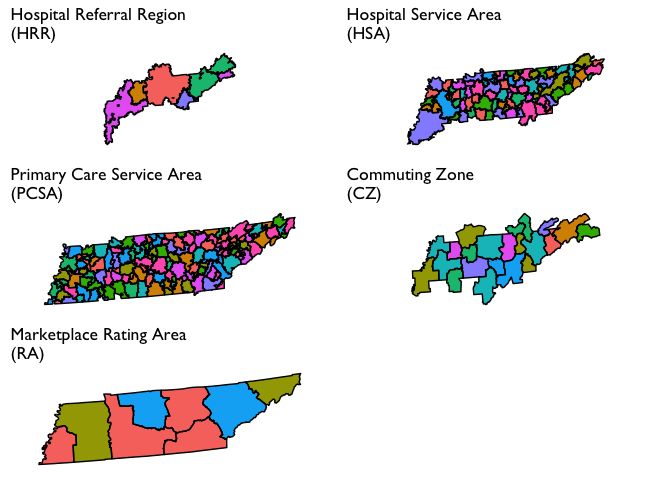
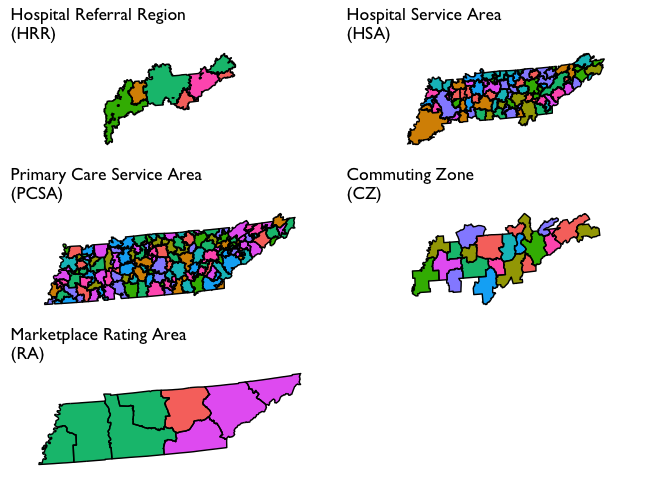
updated README and links in README

diff --git a/README.md b/README.md
@@ -2,9 +2,8 @@
 # Defining Geographic Markets for Health Care Services
 
 The objective of this repository is to lay out some thoughts, analytics,
-and data for defining geographic markets for health care services in the
-U.S. In other words, it is a guided tour of a particularly complex
-rabbit hole.
+and data for defining geographic markets for health care services. In
+other words, it is a guided tour of a particularly complex rabbit hole.
 
 Geographic market definitions are important for a wide variety of
 regulatory and research applications. Therefore, for any given use
@@ -15,26 +14,25 @@ alternative market definitions.
 
 For example, suppose our goal is to characterize insurers, hospitals or
 other providers by whether they operate in a concentrated market. If we
-use a market geography or other market definition that is too narrow
-(e.g., ZIP code) we will mischaracterize many markets as “concentrated”
-when they are really not (i.e., Type I error). Alternatively, a market
-definition that is too broad (e.g., state) risks characterizing markets
-as competitive when in practice a hypothetical merger could materially
-affect prices and competitiveness in a given area (i.e., Type II error).
+use a market geography definition that is too narrow (e.g., ZIP code) we
+will mischaracterize many markets as “concentrated” when they are really
+not (i.e., Type I error). Alternatively, a market definition that is too
+broad (e.g., state) risks characterizing markets as competitive when in
+practice a hypothetical merger or market exit could materially affect
+prices and competitiveness (i.e., Type II error).
 
-Nor surprisingly given the above issues, commonly used market
+Not surprisingly given the above issues, commonly used market
 geographies such as hospital referral regions (HRRs), hospital service
 areas (HSAs), commuting zones (CZs), metropolitan statistical areas
 (MSAs), etc. have trade-offs. Whether the strengths outweigh the
 weaknesses for a given application will depend on the specific research
 or regulatory question at hand.
 
-Even if we can settle on a single definition for our particular
-application or research question, there are other important
-considerations at play. For example, some market definitions are
-constrained by geopolitical boundaries (e.g., state borders). While this
-may be fine for some settings (e.g., rate regulation in insurance
-markets) it may not be for others (e.g., hosptial markets).
+There are other important considerations at play as well. For example,
+some market definitions are constrained by geopolitical boundaries
+(e.g., state borders). While this may be fine for some settings (e.g.,
+rate regulation in insurance markets) it may not be for others (e.g.,
+hosptial markets).
 
 In addition, the underlying population data used to define some commonly
 used geographic markets is woefully out of date. The latest commuting
@@ -56,7 +54,7 @@ for the Affordable Care Act’s non-group marketplaces.
 
 These various market geographies are plotted for Tennessee in the figure
 below. Note that the colors in each polygon are arbitrary and only
-indended to further highlight boundaries across geographies.
+intended to further highlight boundaries across geographies.
 
 What is clear here is that the size of the geographic market varies
 greatly across these possible definitions. HRRs constitute the largest
@@ -68,22 +66,105 @@ used as the geographic market definition to construct an HHI measure.
 Similarly, we see that PCSAs are quite small, while rating areas in
 Tennessee are somewhere in-between the broader HRRs and commuting zones.
 
-![](README_files/figure-gfm/unnamed-chunk-1-1.png)<!-- --> \# Geographic
-Market Definitions
+![](README_files/figure-gfm/unnamed-chunk-1-1.png)<!-- -->
+
+# Geographic Market Definitions
 
 Before moving on it is useful to put down, in one place, the specific
 methods and definitions used to construct each of the aforementioned
 geographic market definitions.
 
-## Hospital Service Areas
+## Hospital Service Areas (HSA)
 
-## Hosptial Referral Regions
+HSAs are defined by the hospital care patterns of fee-for-service
+Medicare beneficiaries. Specifically, a three-step process is used:
+
+1.  Define all general acute care hospitals in the U.S. The town or city
+    of the hospital location becomes the basis for HSA naming. Thus, if
+    a given town has more than one hospital, those hospitals would be
+    considered as part of the same HSA. In practice most HSAs end up
+    with one hospital, however.
+
+2.  Aggregate all Medicare visits to the hospital (or hospitals, in
+    cases where towns or cities have \> 1 hospital). Using a plurality
+    rule, assign ZIP codes to the HSA name where the most of its
+    residents receive hospital care.
+
+3.  Curate the HSA assignments to assure that only contiguous ZIPs make
+    up the HSA.
+
+In total there are 3,436 HSAs in the United States.
+
+According to the Dartmouth methods appendix, data from 1992-93 were used
+to construct HSA boundaries. However, crosswalks from ZIP code
+tabulation area (ZCTA) to HSA are available on the Dartmouth website
+through 2017. Since 3,436 unique HSAs appear in the latest (2017)
+crosswalk this suggests that the updates only pertain to ZCTA updates,
+rather than updates on the geographies of the underlying HSAs.
+
+## Hosptial Referral Regions (HRR)
+
+Whereas HSAs are intented to capture the geographic catchment area where
+residents of a ZIP code receive most of their overall hospital services,
+HRRs are meant to capture larger teritary referral areas.
+
+To identify HRRS, Dartmouth researchers aggregated HSAs into contiguous
+geographies based on where residents of the HSA received the most
+cardiovascular procedures and neurosurgeries. Thus, HSAs serve as the
+basic building block of HRRs. HRRs are also constructed to meet the
+following criteria:
+
+  - Population of at least 120,000.
+  - At least 65% of residents’ services occurred within the region.
+  - Comprised of geographically contiguous HSAs.
+
+In cases where the above criteria were not met, neighboring areas were
+pooled together until all criteria were satisfied. There are 306 HRRs in
+the United States.
 
 ## Primary Care Service Areas
 
+PCSAs are intented to serve as HSAs for primary care. Thus, a PCSA is
+defined as a collection of contiguous ZIP codes with at least one
+primary care provider, and where the plurality of primary care services
+is obtained among fee-for-service Medicare beneficiaries.
+
+There are 6,542 PCSAs in the U.S. – or roughly double the number of
+HSAs. On average there are 4.9 ZCTAs in a PCTA (median =3, max = 81, min
+= 1). 61% of primary care services, on average, are obtained within
+PCSAs.
+
 ## Marketplace Rating Areas
 
+Marketplace rating areas are geographically contiguous areas used for
+the purpopses of insurance plan rate setting in the non-group market.
+The default geography used to set rating areas is the Metropolitan
+Statistical Area (MSA) plus the remainder of the state not in an MSA
+(MSA+1 definition). However, states have the option to define
+alternative county, 3-digit ZIP, or MSA/non-MSA clusters if they deem
+some alternative definition more important for regulation and rate
+setting within the state.
+
+In practice, only 7 states (AL, NM, ND, OK, TX, VA, WY) went along with
+the default (MSA+1) standard. The vast majority of the states submitted
+clusterings of counties as their rating area definitions. Another
+handful of states (MA, NE, AK) uses clusters of 3-digit ZIP codes, while
+CA uses a combination of counties and 3-digit ZIPs. Specifically, LA
+county is split into two rating areas based on 3-digit ZIP.
+
+What this means is there is signficant heterogeneity across states in
+the geographic and population size of rating areas. South Carolina, for
+example, has 46 rating areas – more than *double* the 19 rating areas
+that define California\!
+
 ## Commuting Zones
+
+Commuting zones are comprised of geographically contiguous counties with
+strong wtihin-area clustering of commuting ties between residental and
+work county, and weak across-area ties.
+
+More recent data are available
+[here](https://www.census.gov/data/tables/time-series/demo/commuting/commuting-flows.html).
 
 # How Do HHI Measures Compare Across Geographic Market Defintions?
 
@@ -115,6 +196,47 @@ extensions to the geographic definitions covered above. These include:
         greatest fraction).
     
       - Based on hospital-specific HHIs.
+
+### Rural-Urban Commuting
+
+[Rural-Urban Commuting
+Codes](https://www.ers.usda.gov/data-products/rural-urban-commuting-area-codes.aspx)
+
+> The rural-urban commuting area (RUCA) codes classify U.S. census
+> tracts using measures of population density, urbanization, and daily
+> commuting. The most recent RUCA codes are based on data from the 2010
+> decennial census and the 2006-10 American Community Survey. The
+> classification contains two levels. Whole numbers (1-10) delineate
+> metropolitan, micropolitan, small town, and rural commuting areas
+> based on the size and direction of the primary (largest) commuting
+> flows. These 10 codes are further subdivided based on secondary
+> commuting flows, providing flexibility in combining levels to meet
+> varying definitional needs and preferences.
+
+1  Metropolitan area core: primary flow within an urbanized area (UA)
+
+2.  Metropolitan area high commuting: primary flow 30% or more to a UA
+
+3  Metropolitan area low commuting: primary flow 10% to 30% to a UA
+
+4 Micropolitan area core: primary flow within an Urban Cluster of 10,000
+to 49,999 (large UC)
+
+5 Micropolitan high commuting: primary flow 30% or more to a large UC
+
+6 Micropolitan low commuting: primary flow 10% to 30% to a large UC
+
+7 Small town core: primary flow within an Urban Cluster of 2,500 to
+9,999 (small UC)
+
+8 Small town high commuting: primary flow 30% or more to a small UC
+
+9 Small town low commuting: primary flow 10% to 30% to a small UC
+
+10. Rural areas: primary flow to a tract outside a UA or UC
+
+11. Not coded: Census tract has zero population and no rural-urban
+    identifier information
 
 # File Descriptions
 
